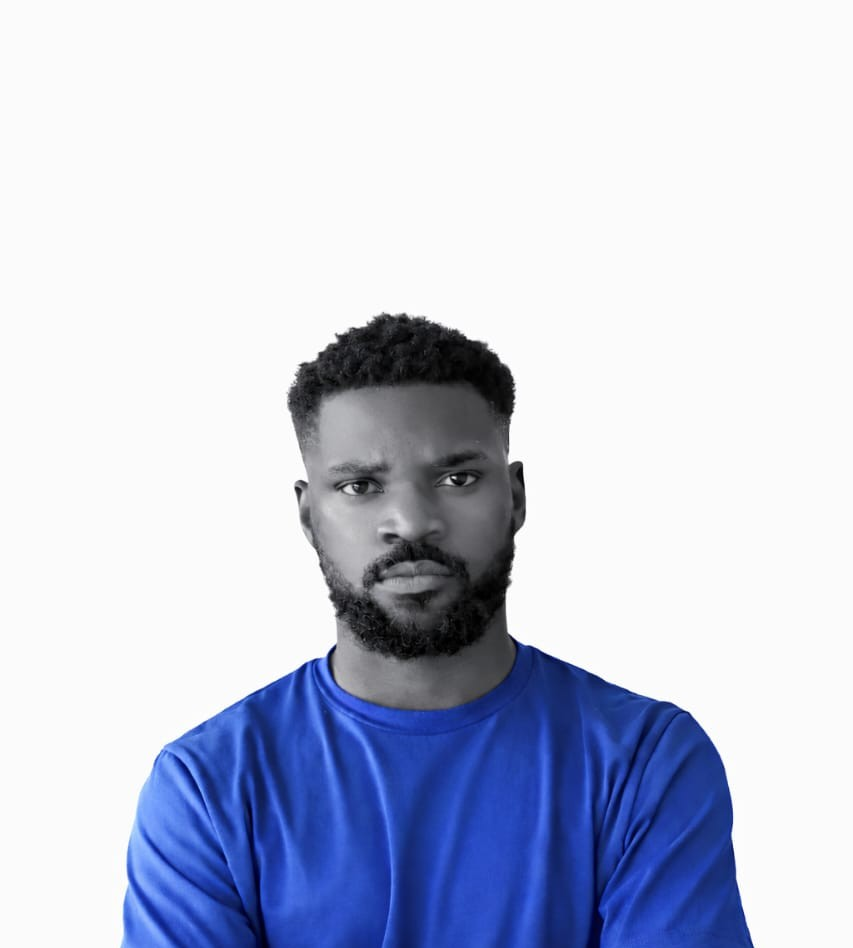
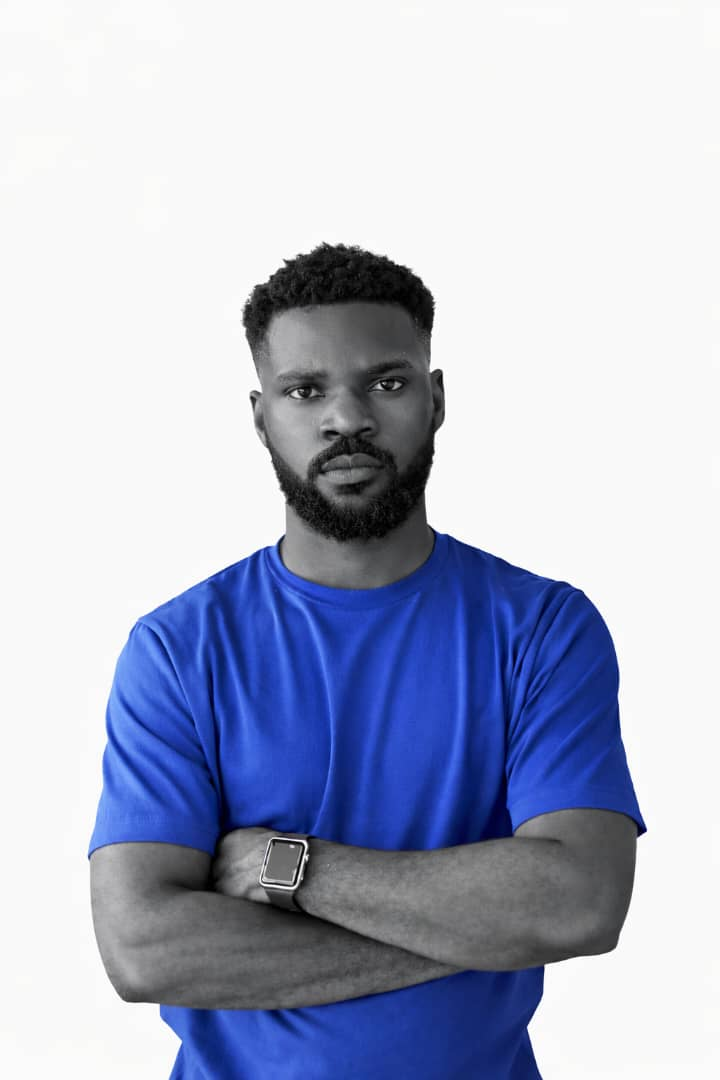
Qua Industries Limited

diff --git a/src/components/Team.tsx b/src/components/Team.tsx
@@ -38,7 +38,7 @@ export default function Team() {
       image: '/finance.jpeg',
     },
     {
-      name: 'Bright Ntuk',
+      name: 'Bright Utuk',
       role: 'Project Management & Partnerships',
       bio: 'Project manager building strategic partnerships and driving growth across our initiatives',
       email: '',
